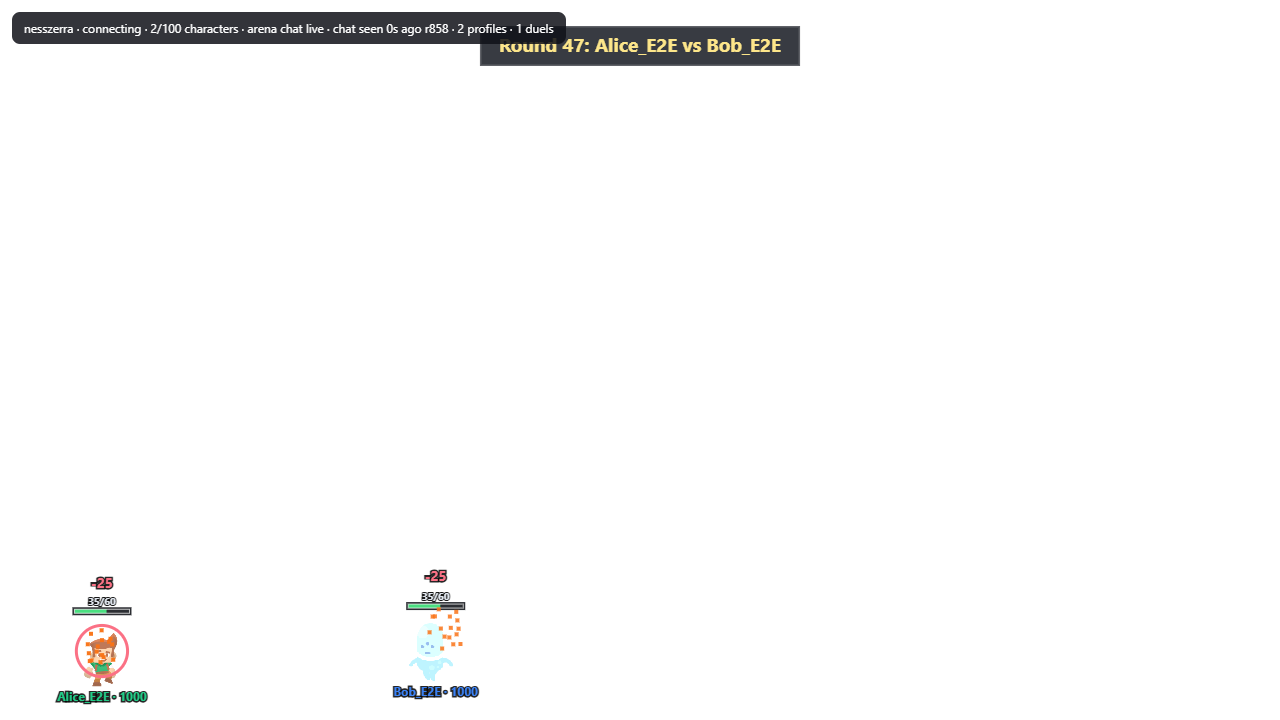
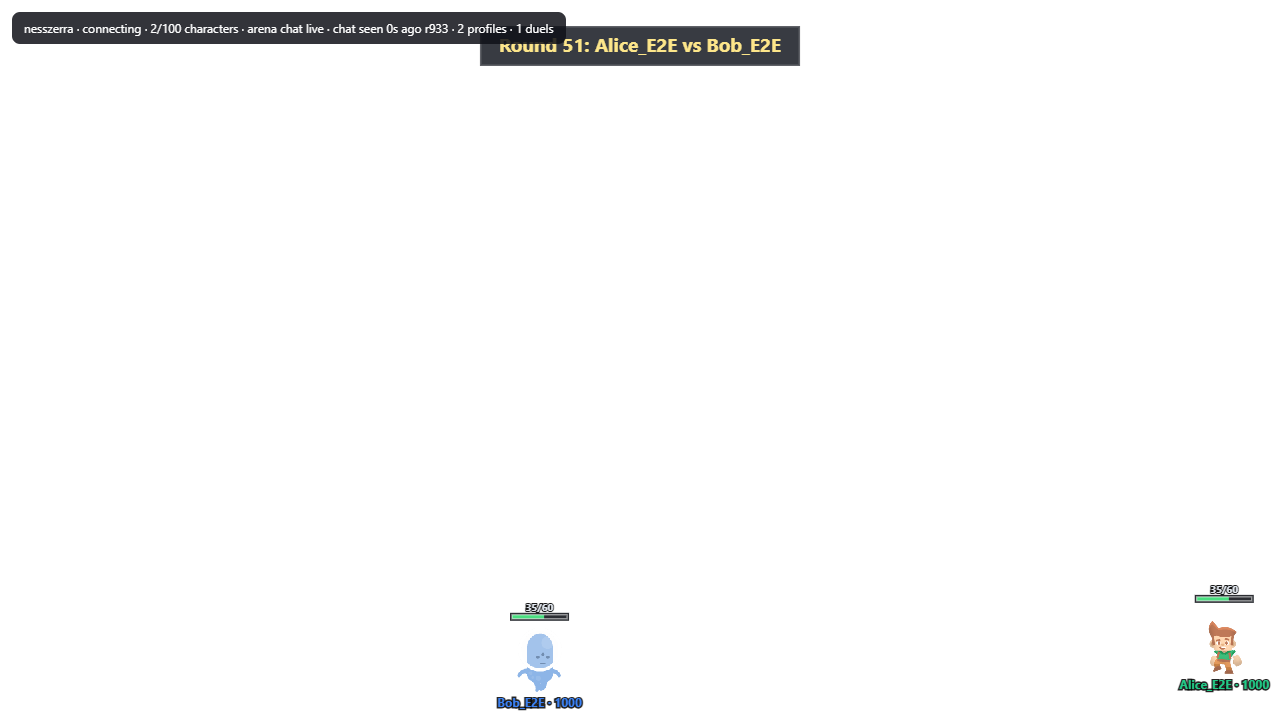
Quick duels (default): accepting settles the duel with one knockout hit; overlay plays start, hit and KO in order

diff --git a/server/game.js b/server/game.js
@@ -1,5 +1,8 @@
 const DEFAULT_CONFIG = {
   enabled: true,
+  // Quick duels: accepting settles the duel at once with one knockout hit, winner picked 50/50.
+  // Off = the HP fight with !attack/!strike/!heavy/!heal.
+  quickDuel: true,
   maxHp: 100,
   maxDuels: 5,
   challengeTimeoutMs: 30_000,
@@ -324,6 +327,26 @@ function beginDuel(state, duel, now) {
   return { ok: true, duelId: duel.id };
 }
 
+// Quick duel: one knockout hit right after the duel starts. roll in [0, 1) comes from the room; < 0.5 means a wins.
+function settleQuickDuel(state, duel, roll, now) {
+  const r = Number.isFinite(roll) && roll >= 0 && roll < 1 ? roll : hashRoll(duel.id + ":" + now);
+  const winnerId = r < 0.5 ? duel.a : duel.b;
+  const loserId = winnerId === duel.a ? duel.b : duel.a;
+  const amount = duel.hp[loserId];
+  duel.hp[loserId] = 0;
+  const loser = player(state, loserId);
+  if (loser) loser.hp = 0;
+  addEvent(state, "duel_action", now, { duelId: duel.id, userId: winnerId, targetId: loserId, ability: "heavy", amount, hp: clone(duel.hp), finisher: true });
+  finishDuel(state, duel, winnerId, now);
+  return { ok: true, reason: "quick_duel", duelId: duel.id, winnerId, loserId };
+}
+
+function hashRoll(text) {
+  let h = 2166136261;
+  for (let i = 0; i < text.length; i++) h = Math.imul(h ^ text.charCodeAt(i), 16777619);
+  return (h >>> 0) / 4294967296;
+}
+
 function finishDuel(state, duel, winnerId, now) {
   const a = player(state, duel.a);
   const b = player(state, duel.b);
@@ -427,6 +450,7 @@ function applyCommand(state, event, now) {
     const mutual = openDuels(state).find((item) => item.status === "pending" && item.a === target.userId && item.b === actor.userId);
     if (mutual) {
       const started = beginDuel(state, mutual, now);
+      if (started.ok && state.config.quickDuel) return settleQuickDuel(state, mutual, event.roll, now);
       return started.ok ? { ...started, reason: "duel_started" } : started;
     }
     return createChallenge(state, actor, target, now);
@@ -447,7 +471,9 @@ function applyCommand(state, event, now) {
       addEvent(state, "challenge_declined", now, { duelId: duel.id, declinedBy: actor.userId });
       return { ok: true, reason: "challenge_declined", duelId: duel.id };
     }
-    return beginDuel(state, duel, now);
+    const started = beginDuel(state, duel, now);
+    if (started.ok && state.config.quickDuel) return settleQuickDuel(state, duel, event.roll, now);
+    return started;
   }
 
   const abilityName = parsed.action === "attack" ? actor.defaultAbility : parsed.action;
@@ -476,9 +502,9 @@ function validateConfigPatch(patch) {
     eloK: [1, 100],
   };
   for (const key of Object.keys(patch)) {
-    if (key === "enabled") {
-      if (typeof patch.enabled !== "boolean") return { ok: false, reason: "invalid_config_enabled" };
-      out.enabled = patch.enabled;
+    if (key === "enabled" || key === "quickDuel") {
+      if (typeof patch[key] !== "boolean") return { ok: false, reason: "invalid_config_" + key };
+      out[key] = patch[key];
     } else if (key === "relayLeaseMs") {
       continue;   // removed with the relay; old history versions may still carry it, so rollbacks skip it
     } else if (ranges[key]) {

diff --git a/public/overlay.js b/public/overlay.js
@@ -232,13 +232,25 @@ async function start() {
     if (particles.length > 300) particles.splice(0, particles.length - 300);
   }
   function floatText(p, text, color) { if (p) p.floatText = { text, color, until: Date.now() + 1200 }; }
+  // Events of one duel that arrive together (a quick duel sends start, hit and KO at once) play one after another.
+  const DUEL_EVENT_GAP_MS = { duel_started: 700, duel_action: 600 };
+  const duelNextAt = new Map();
+  function queueArenaEvent(event) {
+    const id = event?.duelId;
+    if (!id) return handleArenaEvent(event);
+    const now = Date.now(), at = Math.max(now, duelNextAt.get(id) || 0);
+    duelNextAt.set(id, at + (DUEL_EVENT_GAP_MS[event.type] || 0));
+    if (duelNextAt.size > 50) duelNextAt.delete(duelNextAt.keys().next().value);
+    if (at <= now) handleArenaEvent(event);
+    else setTimeout(() => handleArenaEvent({ ...event, at: Number.isFinite(event.at) ? event.at + (at - now) : event.at }), at - now);
+  }
   function handleArenaEvent(event) {
     if (!event || typeof event !== 'object') return;
     if (Number.isFinite(event.at) && Date.now() - event.at > EVENT_FRESH_MS) return;
     const now = Date.now();
     switch (event.type) {
       case 'challenge_created':
-        announceArena(nameOf(event.a) + ' challenges ' + nameOf(event.b) + ' · !accept to fight');
+        announceArena(nameOf(event.a) + ' challenges ' + nameOf(event.b) + ' to a duel');
         break;
       case 'challenge_declined':
         announceArena(nameOf(event.declinedBy) + ' declined the duel', '#e2e8f0');
@@ -609,7 +621,7 @@ async function start() {
     arenaClient = createArenaClient({
       channel,
       onSnapshot: acceptArenaSnapshot,
-      onEvent: handleArenaEvent,
+      onEvent: queueArenaEvent,
       onStatus(event) {
         arenaTransport = event.state || 'offline';
         if (event.chat) arenaChat = event.chat;

diff --git a/server/streamelements.js b/server/streamelements.js
@@ -60,6 +60,10 @@ export function seReplyText({ result, state, actorId, action, target, names = {}
   if (result?.ok) {
     const duel = state.duels.find(d => d.id === result.duelId);
     const other = duel ? (duel.a === actorId ? duel.b : duel.a) : '';
+    if (reason === 'quick_duel') {
+      const w = state.players.find(p => p.userId === result.winnerId), l = state.players.find(p => p.userId === result.loserId);
+      return `${nameOf(state, result.winnerId)} knocks out ${nameOf(state, result.loserId)} in one hit and wins.` + (w && l ? ` Elo: ${nameOf(state, result.winnerId)} ${w.elo}, ${nameOf(state, result.loserId)} ${l.elo}.` : '');
+    }
     if (action === 'accept' || reason === 'duel_started') return `Duel on: ${nameOf(state, duel?.a)} vs ${nameOf(state, duel?.b)}. Use ${n('attack')}, ${n('strike')}, ${n('heavy')} or ${n('heal')}.`;
     if (action === 'challenge') return `${me} challenges @${target} to a duel. @${target}, type ${n('accept')} (or ${n('challenge')} @${me}) or ${n('decline')} within ${secs(state.config.challengeTimeoutMs || 30000)} s.`;
     if (reason === 'challenge_declined') return `${me} declined the duel.`;

diff --git a/server/channel.js b/server/channel.js
@@ -562,7 +562,7 @@ export class ChannelRoom extends DurableObject {
         const parsed = parseGameCommand(textValue);
         if (parsed) {
           const targetProfile = parsed.target ? this.getProfileByUsername(parsed.target, state.config) : null;
-          main = step({ type: "command", messageId: String(ev.message_id || msg.messageId).slice(0, 64), userId, username, displayName, text: textValue, timestamp: Number(msg.timestamp), profile, targetProfile });
+          main = step({ type: "command", messageId: String(ev.message_id || msg.messageId).slice(0, 64), userId, username, displayName, text: textValue, timestamp: Number(msg.timestamp), profile, targetProfile, roll: Math.random() });
           if (!main.result.ok && main.result.reason !== "duplicate") step({ type: "command_rejected", userId, command: parsed.action, reason: main.result.reason, retryAt: main.result.retryAt });
         } else {
           const active = state.players.find((item) => item.userId === userId);
